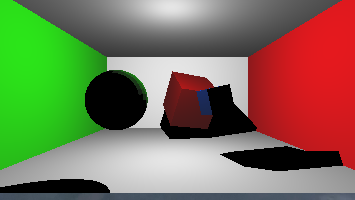
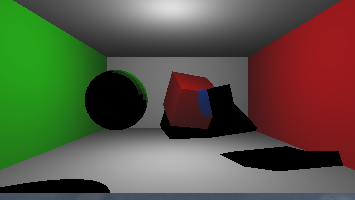
fix light distance artifacts

diff --git a/src/raytracing_scene_load.py b/src/raytracing_scene_load.py
@@ -86,31 +86,31 @@ def color_at(hit, scene):
         0.1,
         0.1,
     ]  # hit_material.ambient jest zawsze 0, wiec zahardkodowalem 0.1
-    light_color = (
-        1,
-        1,
-        1,
-    )  # TODO normalizowac light.color po ludzku a nie uzywac zahardkodowanej wartosci
     # direction_from_hit_to_camera = normalize(scene.camera.origin - hit.coords)
     for light in scene.lights:
+        light_color = np.array(light.color)
         direction_from_hit_to_light = normalize(light.position - hit.coords)
         ray = Ray(origin=hit.coords, direction=direction_from_hit_to_light)
         hit_between_object_and_light = get_collision(ray, scene)
         if hit_between_object_and_light is None or \
                 calculate_distance(hit.coords, hit_between_object_and_light.coords) >= calculate_distance(hit.coords, light.position):
             # if there is no object between the point and light then it means this light shines on object
-            color += np.multiply(ambient, light_color)
+            #color += np.multiply(ambient, light_color/1000)
 
             # diffuse
             color += hit_material.diffusion * np.dot(
                 direction_from_hit_to_light, hit.normal
-            )
+            ) * light_attenuation(light, hit)
 
             # specular - cytujac klasyka 'something is no yes' w tym miejscu, wiec wywalilem
             # H = normalize(direction_from_hit_to_light + direction_from_hit_to_camera)
             # color += light.color * hit_material.reflectance * max(np.dot(hit.normal, H), 0) ** (hit_material.shininess / 4)
 
     return color
+
+def light_attenuation(light, hit):
+    #constant after / is for scaling the light's brightness
+    return (np.average(light.color) / (500 * np.linalg.norm(light.position - hit.coords) ** 2 + 1000))
 
 def calculate_distance(p1, p2):
     squared_dist = np.sum((p1-p2)**2, axis=0)

diff --git a/src/renders/pathtracing/pathtrace.py b/src/renders/pathtracing/pathtrace.py
@@ -167,7 +167,7 @@ def trace_ray(
                 calculate_distance(hit.coords, hit_between_object_and_light.coords) >= calculate_distance(hit.coords, light.position):
             # if there is no collision, the point is not in shadow
             #direct_lighting += (light.intensity / (light_distance ** 2)) * np.maximum(np.dot(light_direction, hit.normal), 0) * hit_material.diffusion
-            direct_lighting +=  hit_material.diffusion *  np.dot(light_direction, hit.normal)
+            direct_lighting +=  hit_material.diffusion *  np.dot(light_direction, hit.normal) * light_attenuation(light, hit)
 
     # RENDER EQUATION
     return (incoming * brdf * cos_theta / probability) + direct_lighting
@@ -186,3 +186,7 @@ def background(
 def calculate_distance(p1, p2):
     squared_dist = np.sum((p1-p2)**2, axis=0)
     return np.sqrt(squared_dist)
+
+def light_attenuation(light, hit):
+    #constant after / is for scaling the light's brightness
+    return (np.average(light.color) / (500 * np.linalg.norm(light.position - hit.coords) ** 2 + 1000))
